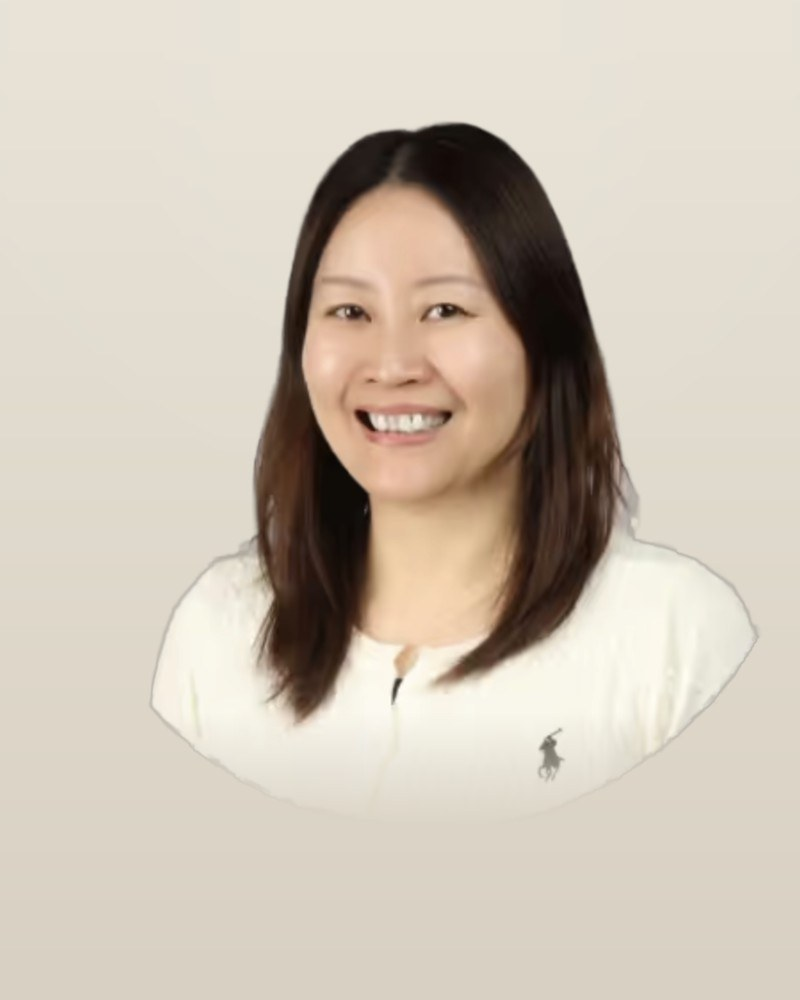
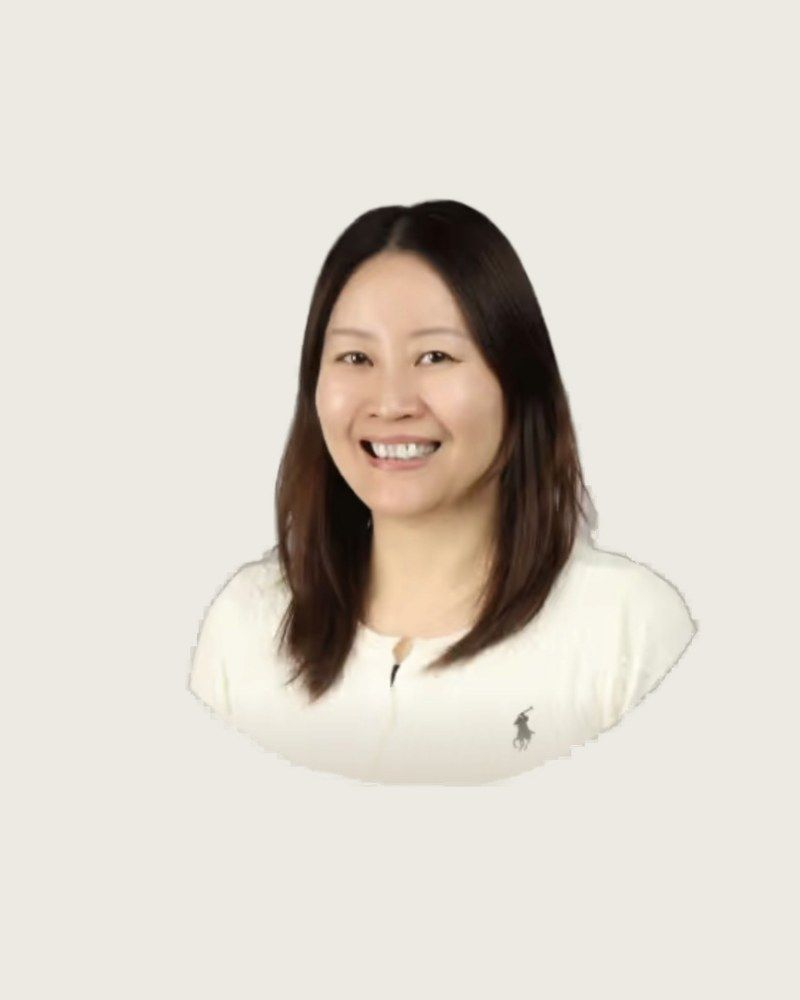
Add Amsterdam team + unify all team portraits into one set
Add Robbert-Jan, Leonard and Max (Amsterdam) to the roster, and bring the
whole team into a single cohesive treatment: every portrait is cut out of
its original (mismatched) background and placed on brand sand, with face
size and eye-line normalised so the grid reads as one set across Hong Kong
and Amsterdam. Photos drop into the existing /company TeamSection, which
groups by location automatically.

Claude-Session: https://claude.ai/code/session_012sUTwtPdH11qSoivRLDWgW

diff --git a/src/data/trust.ts b/src/data/trust.ts
@@ -31,9 +31,12 @@ export const TEAM: TeamMember[] = [
   { name: "Fannie", role: "Sourcing", photo: "/team/fannie.jpg", location: "Hong Kong" },
   { name: "Candy", role: "Partnerships", photo: "/team/candy.jpg", location: "Hong Kong" },
   { name: "Lucinda", role: "Quality control", photo: "/team/lucinda.jpg", location: "Hong Kong" },
-  // TODO (Leonard to supply): remaining team + Amsterdam / Los Angeles people,
-  // with better portraits. e.g.
-  // { name: "…", role: "…", photo: "/team/….jpg", location: "Amsterdam" },
+  { name: "Robbert-Jan", role: "Sales, consulting & strategy", photo: "/team/robbert-jan.jpg", location: "Amsterdam" },
+  { name: "Leonard", role: "Digital strategy & operations", photo: "/team/leonard.jpg", location: "Amsterdam" },
+  { name: "Max", role: "Sales & supply chain", photo: "/team/max.jpg", location: "Amsterdam" },
+  // All portraits share one treatment: cut out and placed on brand sand, with
+  // face size and eye-line normalised, so the roster reads as one set. To add
+  // more people, run a headshot through the same pipeline and add an entry here.
 ];
 
 // Certifications — official marks supplied by SFP.
